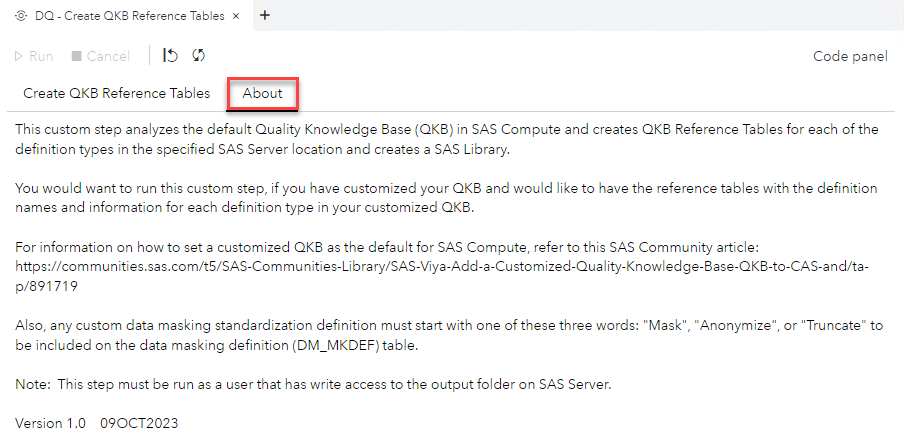
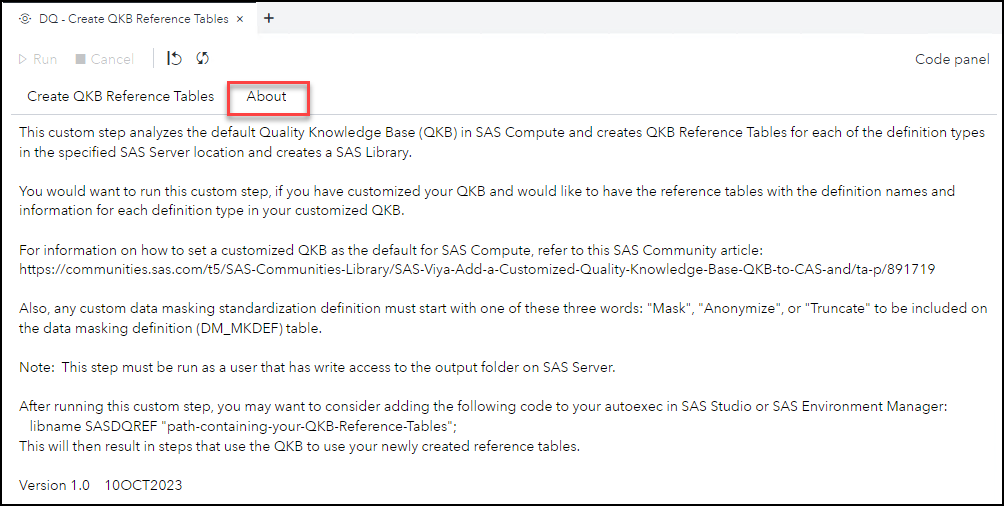
updated README and About text

Changed region(s): [[0.0, 0.0, 1.0, 1.0], [0.0, 0.7059, 0.9602, 0.9118]]

diff --git a/DQ - Create QKB Reference Tables/README.md b/DQ - Create QKB Reference Tables/README.md
@@ -12,7 +12,7 @@ Any custom data masking definition must start with one of these three words: "Ma
 
 *Note:*  This custom step has no input and output tables; therefore, it is intended to be executed in Standalone mode.
 
-After running this custom step, you may want to consider adding the created SAS library to your **autoexec** in *SAS Studio* or *SAS Environment Manager*.  If you add **libname SASDQREF <output_path>**, then the delivered steps that reference the QKB will use your newly created tables.
+After running this custom step, you may want to consider adding ```libname SASDQREF "path-containing-your-QKB-Reference-Tables";```  to your **autoexec** in *SAS Studio* or *SAS Environment Manager*. This will then result in steps that use the QKB to use your newly created reference tables.
 
 
 ## User Interface
@@ -22,7 +22,7 @@ After running this custom step, you may want to consider adding the created SAS 
 
 
 * ### About tab ###
-![](img/AboutTab.png)
+![](img/About.png)
 
 ## Requirements
 
@@ -40,6 +40,6 @@ Note:  The "error" in the Program log is warning messages about deprecated defin
 
 ## Change Log
 
-* Version 1.0 (09OCT2023)
+* Version 1.0 (10OCT2023)
     * Initial version
 
